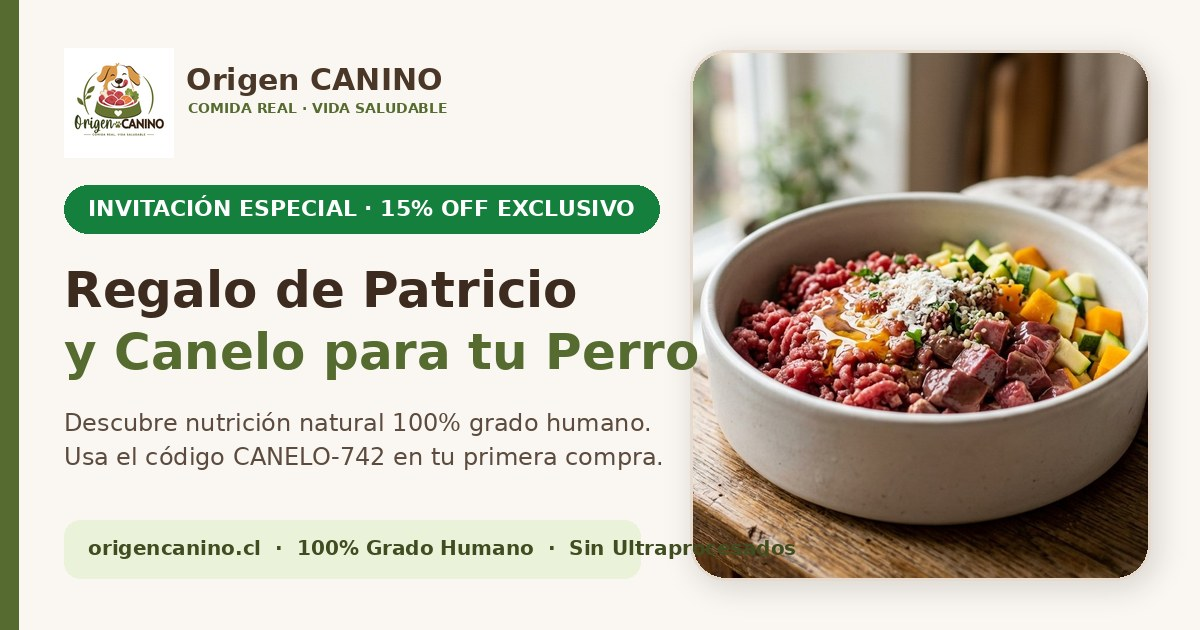
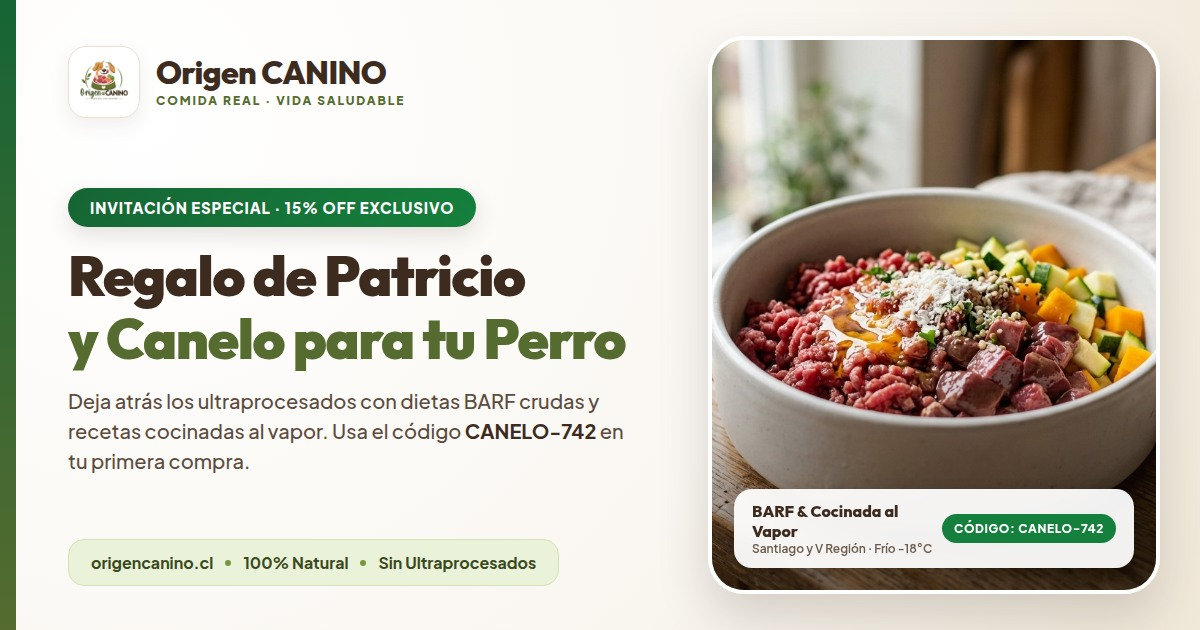
fix(og): rediseño editorial OG 1200x630 con Outfit/Jakarta y correccion copy 100% Natural (sin atribuir grado humano a BARF)

diff --git a/index.html b/index.html
@@ -5,18 +5,18 @@
     <link rel="icon" type="image/webp" href="/logo.webp" />
     <meta name="viewport" content="width=device-width, initial-scale=1.0" />
     <title>Origen Canino - Comida Real, Vida Saludable</title>
-    <meta name="description" content="Dietas BARF crudas y recetas cocinadas al vapor 100% grado humano para perros. Sin ultraprocesados, sin harinas ni preservantes.">
+    <meta name="description" content="Dietas BARF crudas y recetas cocinadas al vapor 100% naturales para perros. Sin ultraprocesados, sin harinas ni preservantes.">
     <meta property="og:type" content="website">
     <meta property="og:site_name" content="Origen Canino">
     <meta property="og:title" content="Origen Canino — Comida Real, Vida Saludable">
-    <meta property="og:description" content="Dietas BARF crudas y recetas cocinadas al vapor 100% naturales de grado humano. Despacho con cadena de frío en Santiago y V Región.">
+    <meta property="og:description" content="Dietas BARF crudas y recetas cocinadas al vapor 100% naturales, sin harinas ni preservantes. Despacho con cadena de frío en Santiago y V Región.">
     <meta property="og:image" content="https://origencanino.cl/images/og-familia-origen-canino.jpg">
     <meta property="og:image:width" content="1200">
     <meta property="og:image:height" content="630">
     <meta property="og:url" content="https://origencanino.cl/">
     <meta name="twitter:card" content="summary_large_image">
     <meta name="twitter:title" content="Origen Canino — Comida Real, Vida Saludable">
-    <meta name="twitter:description" content="Nutrición natural 100% grado humano para tu perro. Sin harinas ni ultraprocesados.">
+    <meta name="twitter:description" content="Nutrición real 100% natural para tu perro. Sin harinas ni ultraprocesados.">
     <meta name="twitter:image" content="https://origencanino.cl/images/og-familia-origen-canino.jpg">
     
     <!-- Fonts (Solo 2 familias ultra legibles y redondeadas modernas) -->

diff --git a/src/components/shop/AmbassadorCommunitySection.jsx b/src/components/shop/AmbassadorCommunitySection.jsx
@@ -21,7 +21,7 @@ const AmbassadorCommunitySection = () => {
     {
       icon: ShieldCheck,
       title: 'Adiós al ultraprocesado',
-      text: 'Ingredientes frescos, visibles y 100% grado humano. Cero harinas de desecho, cero preservantes químicos ni colorantes.'
+      text: 'Ingredientes frescos, reales y visibles. Cero harinas de desecho, cero preservantes químicos ni colorantes.'
     },
     {
       icon: Sparkles,
@@ -220,3 +220,4 @@ const AmbassadorCommunitySection = () => {
 };
 
 export default AmbassadorCommunitySection;
+

diff --git a/src/components/customer/CustomerPortal.jsx b/src/components/customer/CustomerPortal.jsx
@@ -268,7 +268,7 @@ const CustomerPortal = () => {
 
       ctx.fillStyle = '#5C4B3E';
       ctx.font = '500 32px "Plus Jakarta Sans", sans-serif';
-      ctx.fillText('en comida real 100% grado humano para tu perro', W / 2, 700);
+      ctx.fillText('en comida real 100% natural para tu perro', W / 2, 700);
       ctx.fillText('Sin ultraprocesados · Dietas BARF y Cocinadas', W / 2, 748);
 
       // Tarjeta blanca central con el QR escaneable

diff --git a/backend/main.py b/backend/main.py
@@ -4451,7 +4451,7 @@ if os.path.isdir(dist_path):
 
                     og_title = html.escape(f"{first_name}{dog_part} te regalan {pct}% OFF en Origen Canino — Comida Real")
                     og_desc = html.escape(
-                        f"Deja atrás los ultraprocesados: prueba dietas BARF crudas y cocinadas al vapor 100% grado humano con {pct}% de descuento en tu primera compra usando el código {ref_param}."
+                        f"Deja atrás los ultraprocesados: prueba dietas BARF crudas y cocinadas al vapor 100% naturales con {pct}% de descuento en tu primera compra usando el código {ref_param}."
                     )
                     og_img = (
                         "https://origencanino.cl/images/og-embajador-canelo.jpg"
